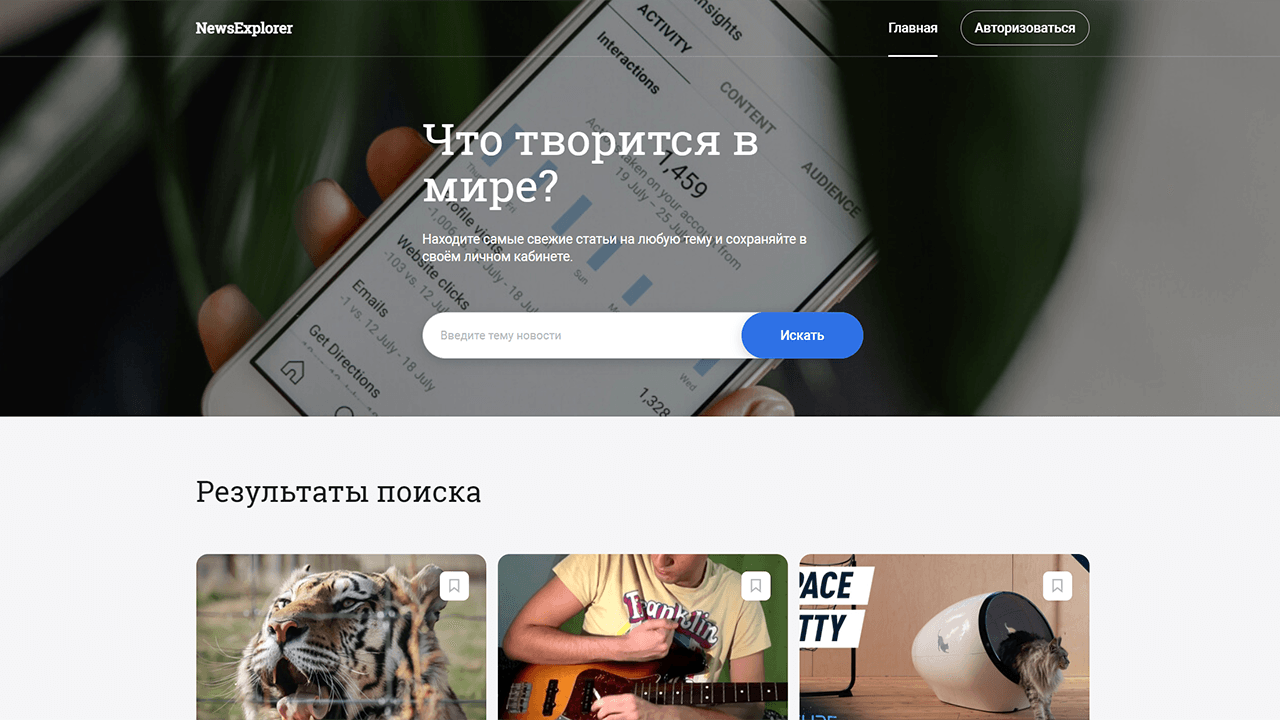
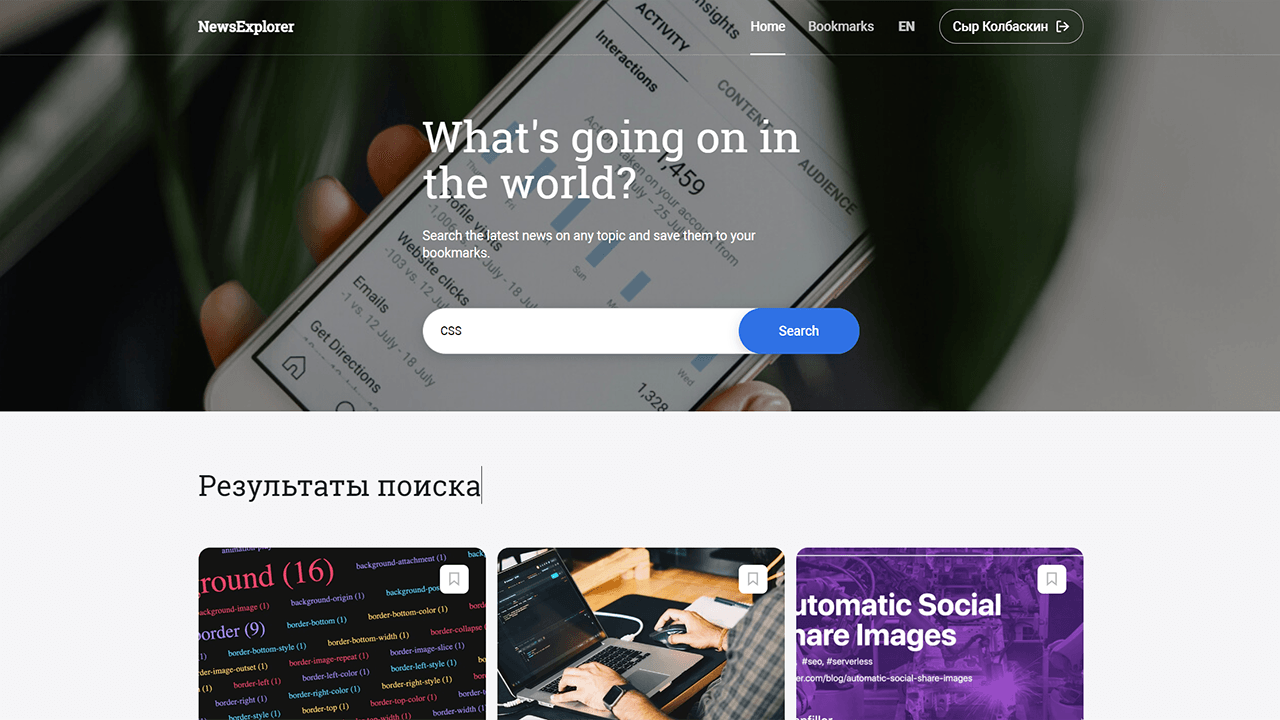
feat: readme

diff --git a/README.md b/README.md
@@ -1,26 +1,50 @@
-# Дипломная работа: News Explorer
-**Яндекс Практикум**
+# The News Explorer
+**Yandex Practicum final graduation project**
 
-![Превью News Explorer](./gh_news.png)
+![News Explorer Preview](./gh_news.png)
 
-News Explorer - одностраничное приложение для поиска новостей по ключевым словам, с возможностью регистрации и сохранения новостей в "избранное". Дипломная работа студента на курсе Яндекс Практикума "Веб-разработчик". Фронтэнд/бэкенд, MERN-функционал.
+News Explorer is a single page application to search global news by search keywords using News API. The application also includes registration/authorization functionality with the ability for users to bookmark news cards. This app is a final graduation project at 'Web Developer' program at [Yandex Practicum](https://practicum.yandex.com/) coding school. Includes frontend and backend (MERN stack).
+
+* Current live version at [https://news.catlogic.ru/](https://news.catlogic.ru/)
 
 ---
-## Технологии
+## Technology used
 
-* Верстка - семантический **HTML5**, стили - **CSS3** (в том числе Flexbox, Grid, transitions). Микроанимации элементов. Модель структуры и именования элементов по методологии **БЭМ**.
-* Логика - **JavaScript ES6** (функциональный подход, async/await, fetch API).
-* Фронтенд - **React**, функциональные компоненты.
-  * Функции Context, Ref, Redirect, Route, Switch.
-  * Хуки useState, useEffect, useContext, useRef, useCallback, useHistory.
-  * Авторизация, валидация на фронтенде, защита роутов, использование состояния компонентов.
-  * Использование LocalStorage для хранения данных между сессиями.
-  * Сборка с применением Create React App.
-* Фронтенд адаптирован под различные устройства - поддерживается разрешение экрана от 320 до 1280 и более пикселей по ширине.
-* Бэкенд - **Node.js/Express.js**. API реализован по принципам REST для работы с базой данных, аутентификации/авторизации.
-  * Хранение и работа с данными - **MongoDB**, использование schema, CRUD-операций. Для работы с Node использован *Mongoose*.
-  * Применяется валидация поступающих данных (в том числе с помощью node-модулей *validator*, *joi/celebrate*).
-  * Для авторизации используется серверный куки с зашифрованным JWT-токеном.
-  * Ведутся логи доступа и ошибок при помощи модуля *winston*.
-  * Реализована централизованная обработка ошибок с отправкой корректных статусов и сообщений о ошибках на запросы.
-* Код стандартизирован при помощи ESLint в конфигурации airbnb-base.
+### Frontend
+
+* HTML/CSS
+* React (+ react-dom, react-router)
+* JavaScript (ES6)
+* I18next (multiple language support)
+
+### Backend
+* Node.js/Express.js
+* MongoDB
+* Node/Express libraries
+
+### Additional info
+* Semantic and accessible HTML, modern CSS (Flexbox, Grid, transitions).
+* Fully responsive layout, optimized for screen resolution from 320px by width.
+* JavaScript ES6 (async/await, fetch API).
+* React frontend:
+  * Functional components.
+  * Context, Ref, Redirect, Route, Switch functions.
+  * useState, useEffect, useContext, useRef, useCallback, useHistory hooks.
+  * Authorization, frontend validation, protected 'bookmarks' route (unreachable for unregistered users).
+  * Global context used for storing user data.
+  * Fetching and processing data from News API.
+  * Saving data to local API.
+  * Utilizing LocalStorage to save search data between sessions.
+  * *I18next* framework used for English/Russian localization.
+* Node/Express backend:
+  * *REST API*, saving/fetching data, user registration/authorization.
+  * Data stored in local MongoDB (schema, CRUD) using *Mongoose*.
+  * Multiple stages of data validation (*validator*, *joi/celebrate*).
+  * Password data is encrypted using *bcryptjs*.
+  * Server cookie with secure JWT token used for authentication.
+  * Access & error logging using *winston*.
+  * Authentication-protected routes.
+  * Centralized middleware for errors handling with correct status and message responses.
+  * Secure headers by *helmet*
+  * Request *rate limit* middleware
+* Code style by *ESLint* in *airbnb-base* config.

diff --git a/README_RU.md b/README_RU.md
@@ -1,0 +1,26 @@
+# Дипломная работа: News Explorer
+**Яндекс Практикум**
+
+![Превью News Explorer](./gh_news.png)
+
+News Explorer - одностраничное приложение для поиска новостей по ключевым словам, с возможностью регистрации и сохранения новостей в "избранное". Дипломная работа студента на курсе Яндекс Практикума "Веб-разработчик". Фронтэнд/бэкенд, MERN-функционал.
+
+---
+## Технологии
+
+* Верстка - семантический **HTML5**, стили - **CSS3** (в том числе Flexbox, Grid, transitions). Микроанимации элементов. Модель структуры и именования элементов по методологии **БЭМ**.
+* Логика - **JavaScript ES6** (функциональный подход, async/await, fetch API).
+* Фронтенд - **React**, функциональные компоненты.
+  * Функции Context, Ref, Redirect, Route, Switch.
+  * Хуки useState, useEffect, useContext, useRef, useCallback, useHistory.
+  * Авторизация, валидация на фронтенде, защита роутов, использование состояния компонентов.
+  * Использование LocalStorage для хранения данных между сессиями.
+  * Сборка с применением Create React App.
+* Фронтенд адаптирован под различные устройства - поддерживается разрешение экрана от 320 до 1280 и более пикселей по ширине.
+* Бэкенд - **Node.js/Express.js**. API реализован по принципам REST для работы с базой данных, аутентификации/авторизации.
+  * Хранение и работа с данными - **MongoDB**, использование schema, CRUD-операций. Для работы с Node использован *Mongoose*.
+  * Применяется валидация поступающих данных (в том числе с помощью node-модулей *validator*, *joi/celebrate*).
+  * Для авторизации используется серверный куки с зашифрованным JWT-токеном.
+  * Ведутся логи доступа и ошибок при помощи модуля *winston*.
+  * Реализована централизованная обработка ошибок с отправкой корректных статусов и сообщений о ошибках на запросы.
+* Код стандартизирован при помощи ESLint в конфигурации airbnb-base.
